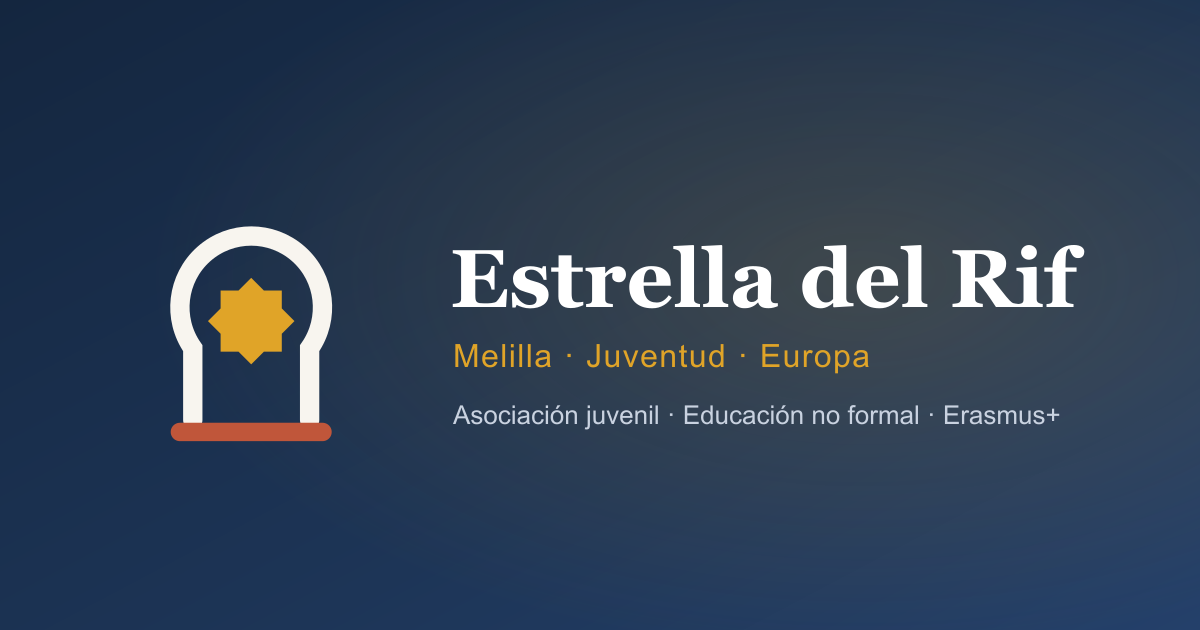
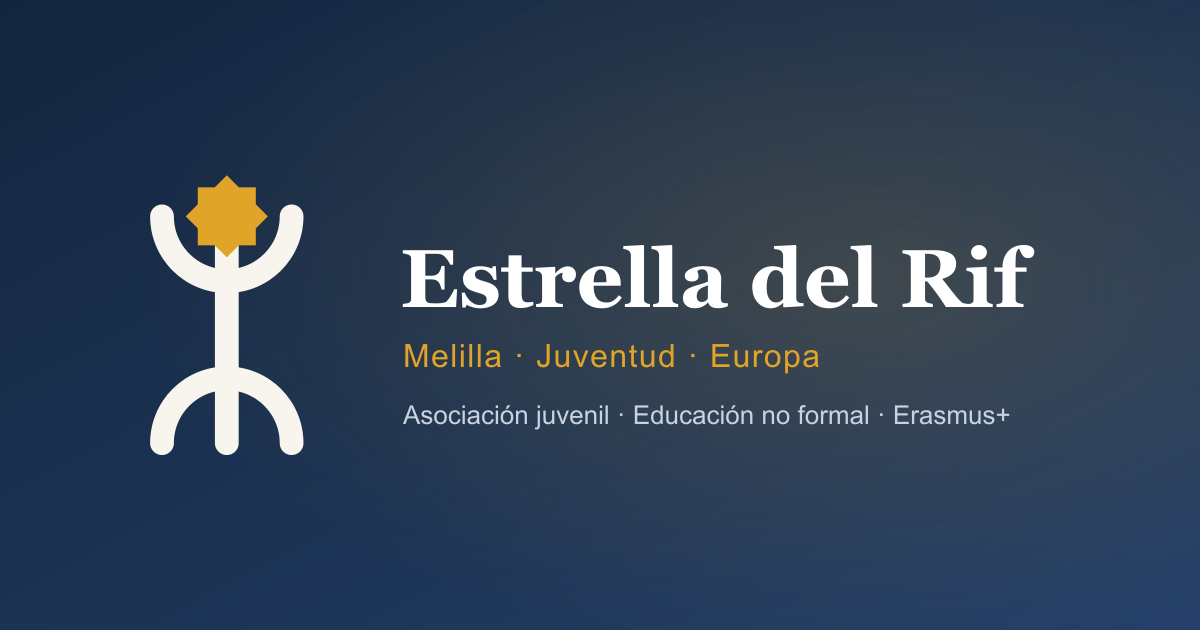
Cambia la marca al yaz rifeno y retira el arco
La asociacion pide que la marca lleve el simbolo rifeno y que desaparezca el
arco de herradura. La marca es ahora el yaz sosteniendo la estrella de ocho
puntas.

El yaz es la letra tifinagh U+2D63, el simbolo de la identidad amazigh y del Rif
y el que ocupa el centro de la bandera amazigh. Se dibuja tal cual es la letra,
un tallo vertical con un arco que abre hacia arriba y otro hacia abajo: es un
simbolo cultural, no un adorno, asi que no se estiliza ni se recorta. El trazado
se contrasto contra el glifo real renderizado con Ebrima antes de dibujarlo, en
vez de fiarse de la memoria.

La estrella se apoya entre los dos brazos levantados del yaz, que es donde la
lectura resulta literal: la estrella del Rif, sostenida por el Rif. Se probaron
seis composiciones; las que ponian la estrella en el centro partian el tallo en
dos y el glifo dejaba de leerse, y las que la dejaban flotando encima perdian
fuerza a tamano pequeno.

El favicon lleva trazo 6.4 en vez de 4.4 y estrella de radio 9 en vez de 7.6,
elegidos comparando tres pesos a 16, 32 y 48 px: con el trazo del logo grande, a
16 px el tallo mide 1,3 pixeles y desaparece.

La imagen social se reencuadra porque la marca nueva es mas estrecha y alta, y
ahora se posiciona por la caja de tinta y no por el lienzo del SVG.

diff --git a/CLAUDE.md b/CLAUDE.md
@@ -41,15 +41,24 @@ asoc.estrelladelrif@gmail.com · +34 666 028 511
 Junta: Mohamed Abdelkader Kichouh (presidente) · Pablo Sánchez Ruiz (vicepresidente)
 Colores: indigo #14263f · terracota #c0563a · oro #e0a428 · turquesa #2f8f89 · cal #f8f5ef
 Logo: public/images/logo.svg (fondo claro) y logo-claro.svg (fondo oscuro)
+Marca: yaz tifinagh U+2D63 sosteniendo una estrella de ocho puntas
 OG image: public/og-image.png
 ```
 
 ## Marca
 
+La marca es el **yaz** sosteniendo una **estrella de ocho puntas**. El yaz es la letra
+tifinagh **U+2D63**, el símbolo de la identidad amazigh y del Rif, el mismo que ocupa el
+centro de la bandera amazigh: se dibuja tal cual es la letra, sin estilizar ni recortar.
+La estrella se apoya entre sus dos brazos levantados, de modo que la lectura es literal,
+«la estrella del Rif».
+
 Los SVG fuente son `public/images/logo.svg` y `public/favicon.svg`. Todo lo demás
 (favicons PNG, `favicon.ico`, `apple-touch-icon`, `logo-claro.svg`, `logo-1024.png`,
 `og-image.png`) lo genera `npm run marca` con sharp. **No editar los derivados a mano**:
-se sobreescriben. La geometría del arco está documentada dentro de `logo.svg`.
+se sobreescriben. La geometría exacta y el por qué de cada medida están documentados
+dentro de los dos SVG; el favicon lleva un trazo más grueso porque el del logo grande
+desaparece a 16 px.
 
 ## Comandos
 

diff --git a/README.md b/README.md
@@ -26,7 +26,7 @@ la vida democrática y acceda a las oportunidades europeas.
 public/
   CNAME                  dominio propio
   favicon.svg            marca para tamano pequeno (fuente)
-  images/logo.svg        marca principal (fuente)
+  images/logo.svg        marca principal (fuente): yaz tifinagh U+2D63 + estrella de 8 puntas
   images/logo-claro.svg  variante para fondo oscuro (generada)
   og-image.png           imagen social 1200x630 (generada)
   favicon-*.png  apple-touch-icon.png  favicon.ico
